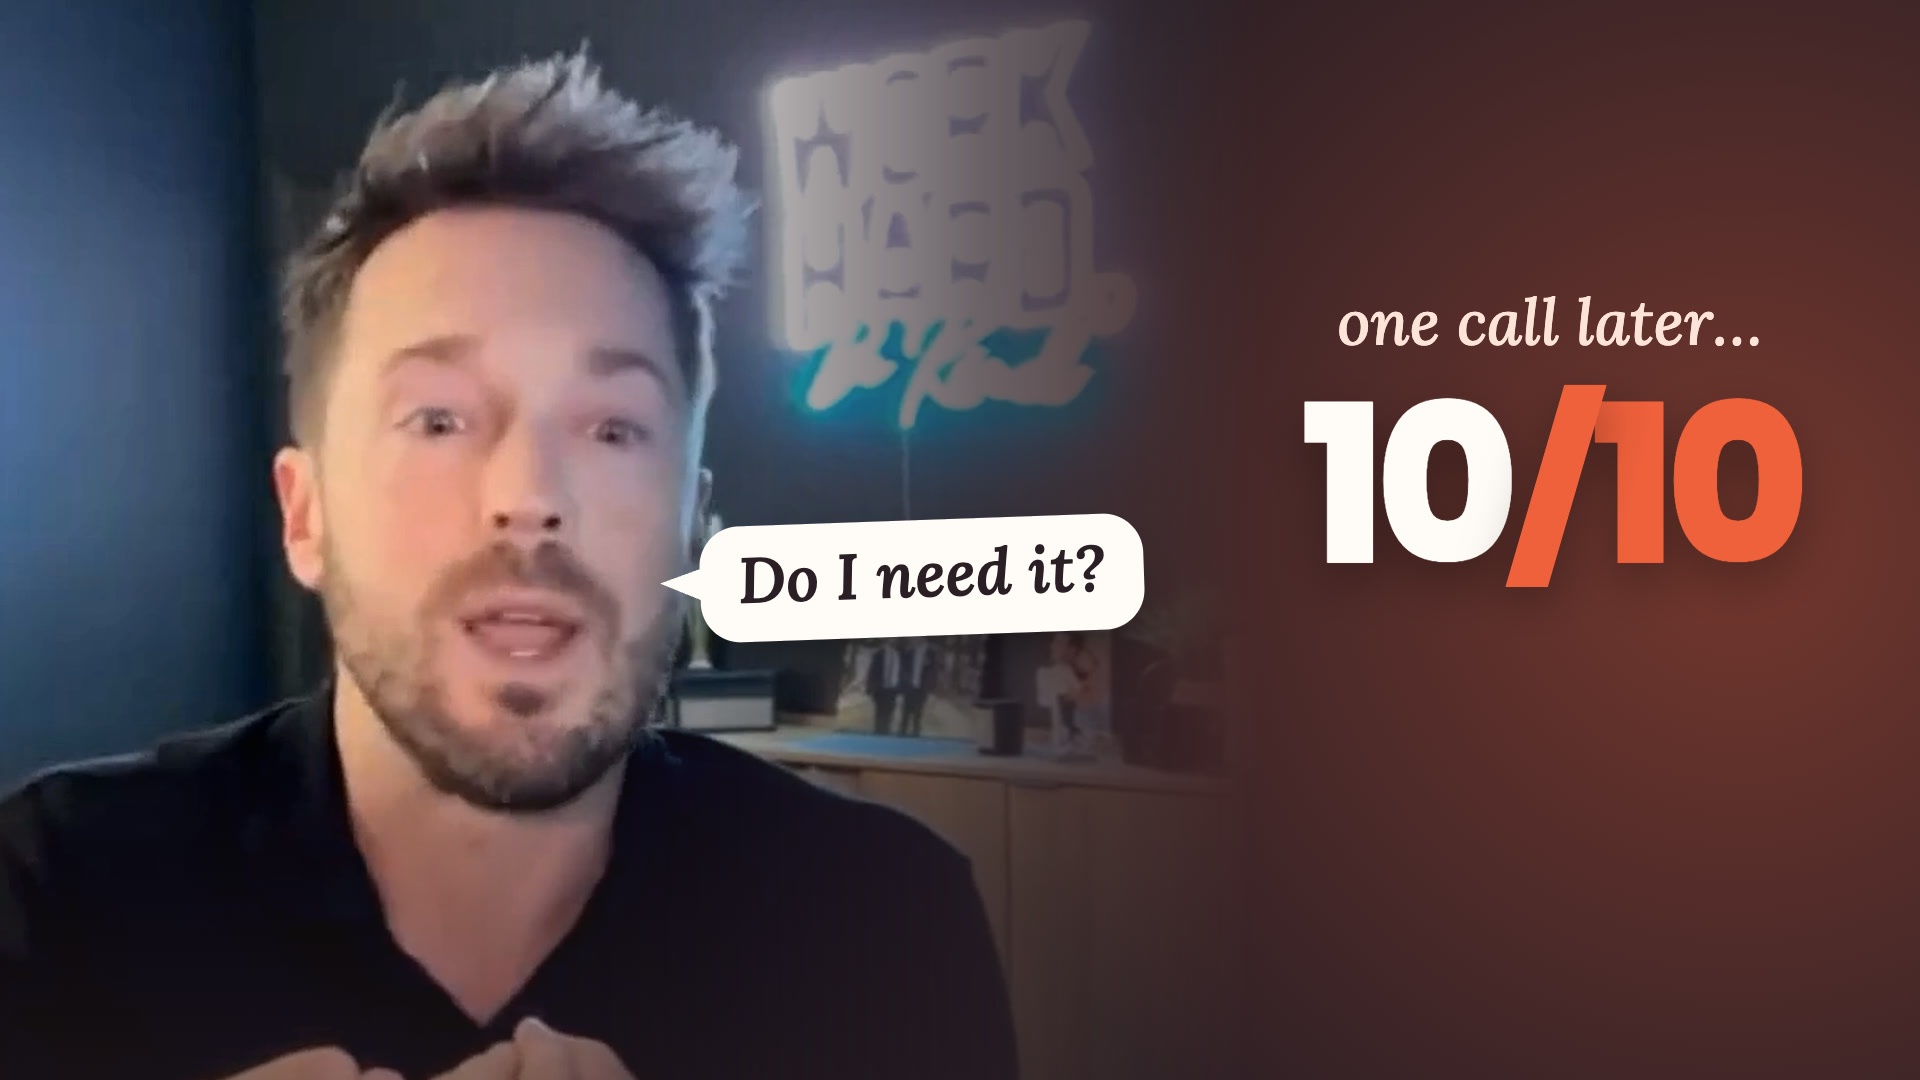
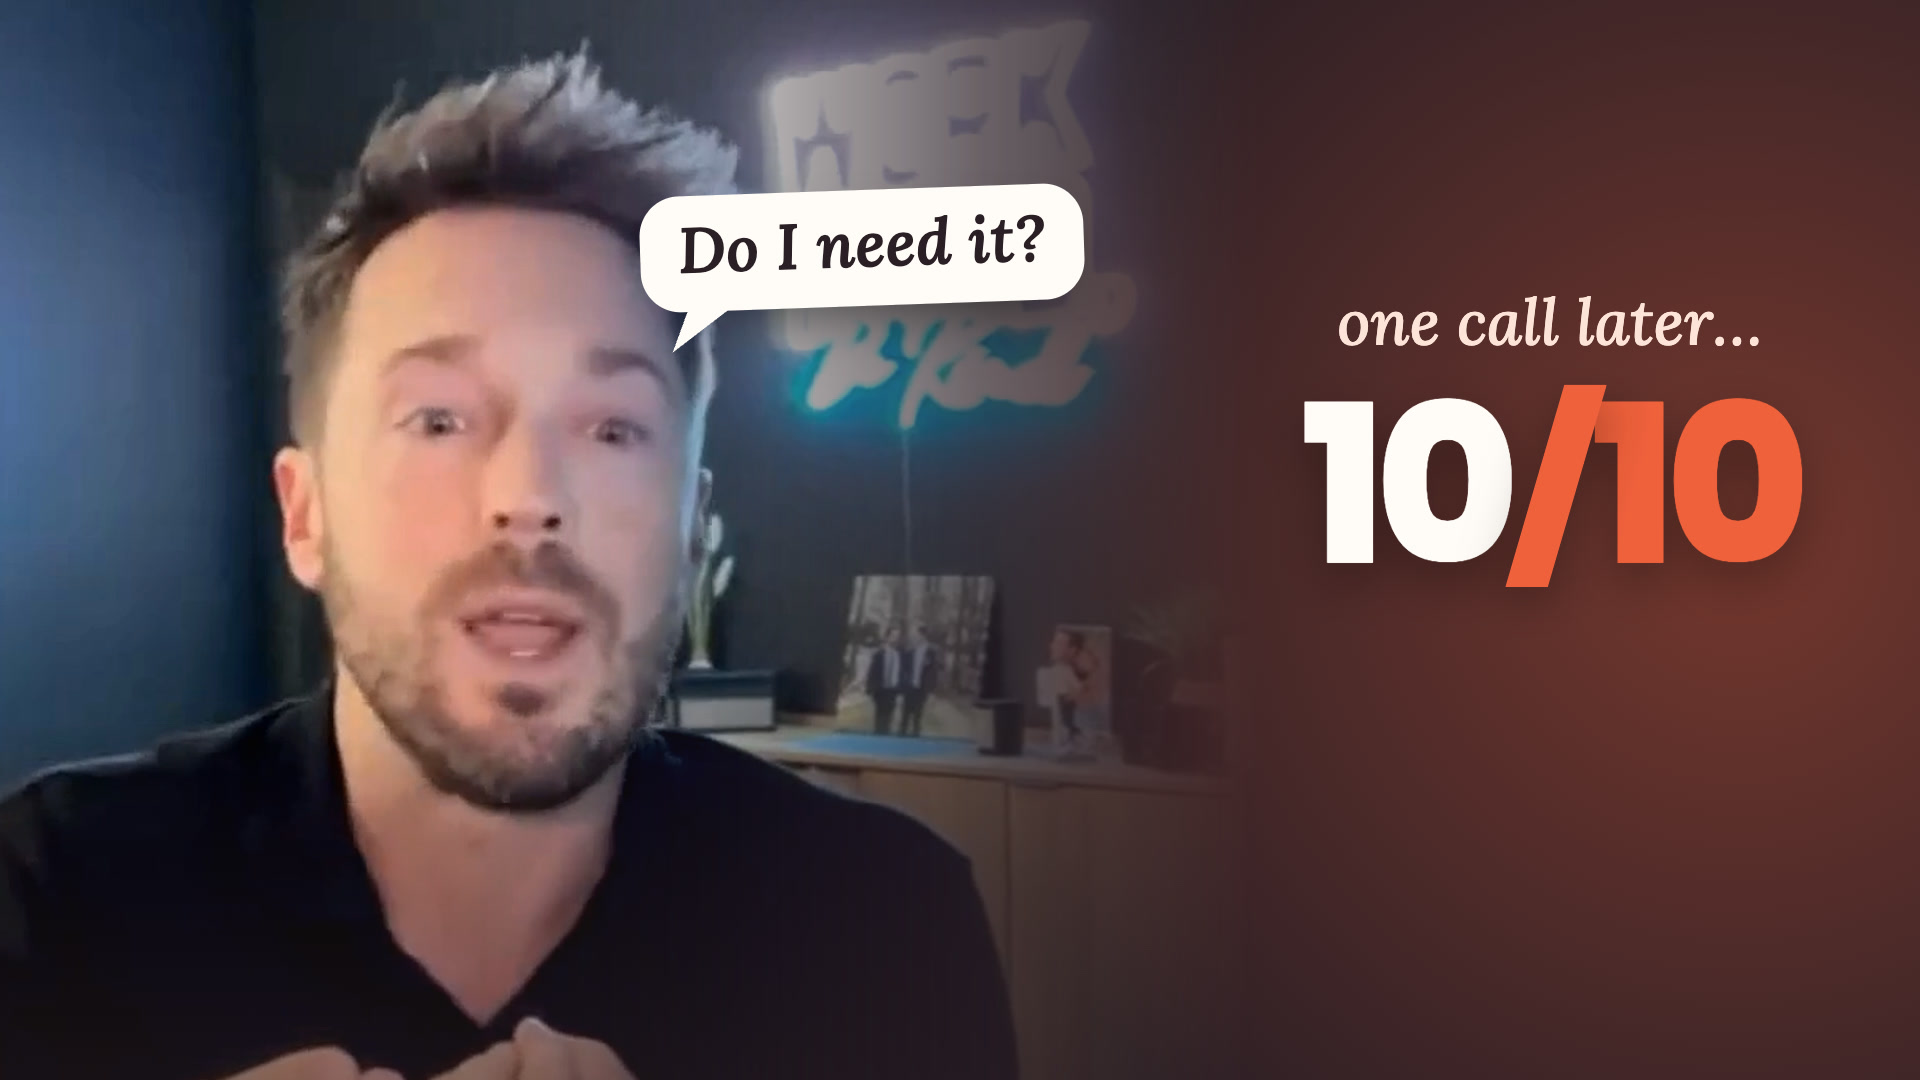
Reel: centered play button

Changed region(s): [[0.3125, 0.1528, 0.5625, 0.3361], [0.3438, 0.4583, 0.5938, 0.6111]]

diff --git a/index.html b/index.html
@@ -126,15 +126,15 @@
   .reel video { display: block; width: 100%; aspect-ratio: 16 / 9; background: #1d1418; }
   .reel { position: relative; }
   .play { position: absolute; inset: 0; border: 0; background: transparent; cursor: pointer; }
-  .play .pin { position: absolute; left: 80.7%; top: 74%; transform: translate(-50%, -50%); display: flex; align-items: center; gap: 14px; background: #fffbf8; border-radius: 999px; padding: 8px 22px 8px 8px; box-shadow: 0 14px 30px -12px rgba(0, 0, 0, .6); transition: transform .2s; }
+  .play .pin { position: absolute; left: 50%; top: 50%; transform: translate(-50%, -50%); display: flex; flex-direction: column; align-items: center; gap: 10px; transition: transform .2s; }
   .play:hover .pin { transform: translate(-50%, -50%) scale(1.04); }
-  .play .tri { width: 56px; height: 56px; border-radius: 50%; background: var(--coral); position: relative; transition: transform .2s; animation: pulse 2.4s ease-out infinite; }
-  .play .tri::after { content: ""; position: absolute; left: 22px; top: 17px; border-style: solid; border-width: 11px 0 11px 17px; border-color: transparent transparent transparent #fff; }
-  .play em { font: 600 17px Poppins, sans-serif; font-style: normal; color: var(--ink); white-space: nowrap; }
+  .play .tri { width: 84px; height: 84px; border-radius: 50%; background: var(--coral); box-shadow: 0 14px 30px -10px rgba(0,0,0,.6); position: relative; transition: transform .2s; animation: pulse 2.4s ease-out infinite; }
+  .play .tri::after { content: ""; position: absolute; left: 33px; top: 25px; border-style: solid; border-width: 17px 0 17px 26px; border-color: transparent transparent transparent #fff; }
+  .play em { font: 600 13px Poppins, sans-serif; font-style: normal; color: #fff; white-space: nowrap; background: rgba(43,30,38,.75); padding: 5px 12px; border-radius: 999px; }
   
   @keyframes pulse { 0% { box-shadow: 0 0 0 0 rgba(240, 96, 60, .55); } 100% { box-shadow: 0 0 0 14px rgba(240, 96, 60, 0); } }
   .reel.on .play { display: none; }
-  @media (max-width: 720px) { .reel { border-radius: 16px; } .play .pin { top: 76%; padding: 4px 12px 4px 4px; gap: 8px; } .play .tri { width: 30px; height: 30px; animation: none; } .play .tri::after { left: 12px; top: 9px; border-width: 6px 0 6px 9px; } .play em { font-size: 11px; } }
+  @media (max-width: 720px) { .reel { border-radius: 16px; } .play .tri { width: 46px; height: 46px; animation: none; } .play .tri::after { left: 18px; top: 14px; border-width: 9px 0 9px 14px; } .play em { display: none; } }
 
   /* spotlight */
   .spot { position: relative; margin: 6px 0 26px; background: var(--ink); color: #fff; border-radius: 24px; padding: 34px 40px 28px; overflow: hidden; box-shadow: 0 20px 50px -24px rgba(43, 30, 38, .6); }
@@ -227,8 +227,8 @@
 
 <div class="wrap">
   <section class="reel" aria-label="Onboarding highlight reel">
-    <video id="reelv" src="montage.mp4" poster="montage.jpg?v=7" playsinline preload="metadata"></video>
-    <button class="play" id="reelplay" aria-label="Play the highlight reel"><span class="pin"><span class="tri"></span><em>Watch · 1:20</em></span></button>
+    <video id="reelv" src="montage.mp4" poster="montage.jpg?v=9" playsinline preload="metadata"></video>
+    <button class="play" id="reelplay" aria-label="Play the highlight reel"><span class="pin"><span class="tri"></span></span></button>
   </section>
 </div>
 
